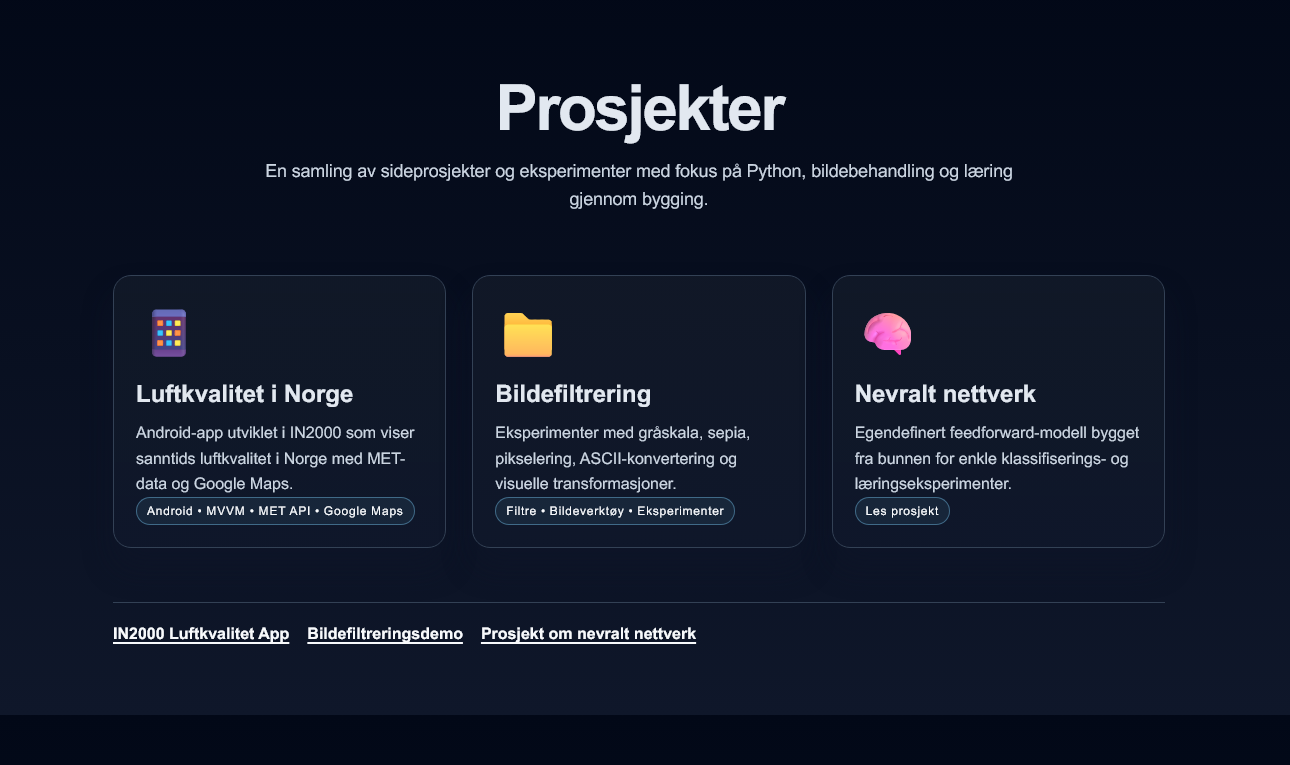
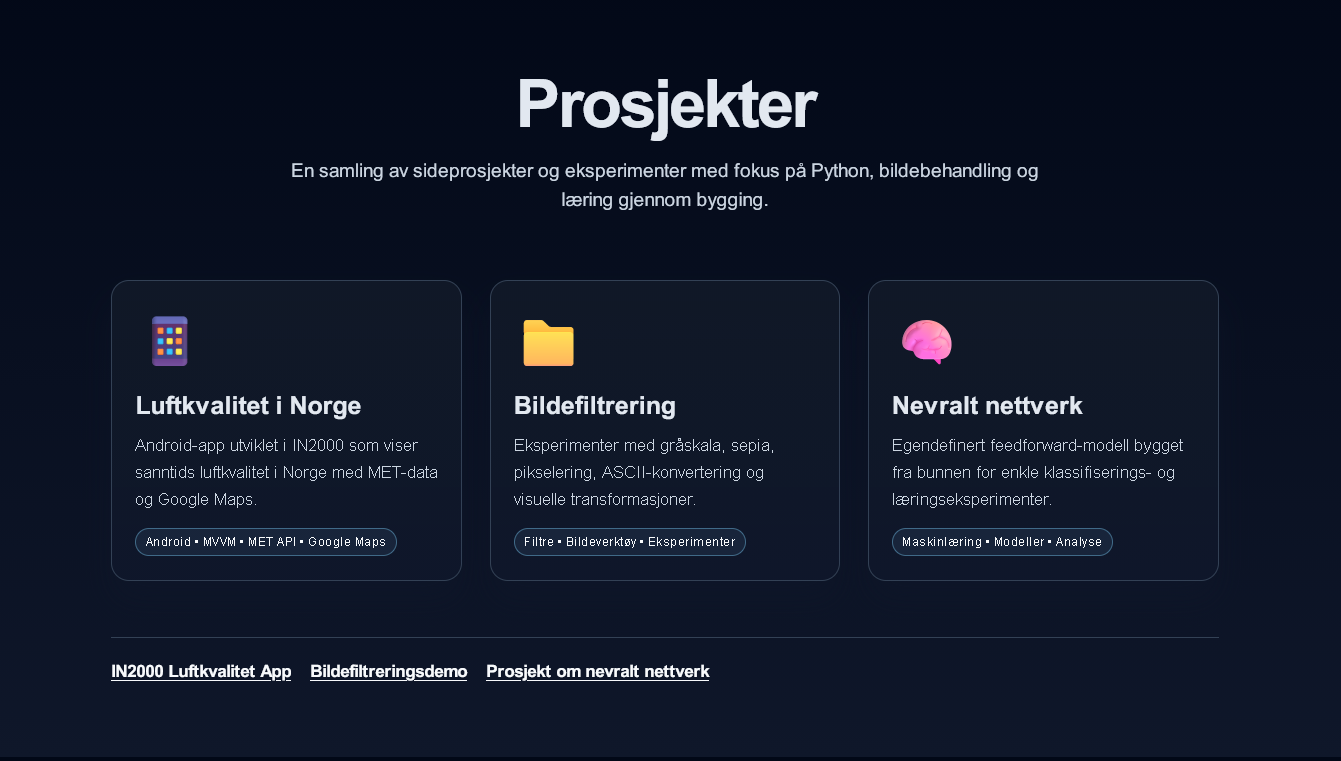
format endring

diff --git a/index.html b/index.html
@@ -83,15 +83,17 @@
     }
     .folder .tag {
       display: inline-block;
-      margin-top: auto;
-      padding: 6px 10px;
+      margin-top: 14px;
+      padding: 5px 9px;
       border-radius: 999px;
       border: 1px solid rgba(125, 211, 252, 0.4);
       color: var(--link);
       background: rgba(125, 211, 252, 0.08);
-      font-size: 0.78rem;
+      font-size: 0.72rem;
       letter-spacing: 0.04em;
       width: fit-content;
+      white-space: nowrap;
+      line-height: 1.3;
     }
     .bottom-links {
       margin-top: 54px;
@@ -141,7 +143,7 @@
         <div class="folder-icon">🧠</div>
         <h2>Nevralt nettverk</h2>
         <p>Egendefinert feedforward-modell bygget fra bunnen for enkle klassifiserings- og læringseksperimenter.</p>
-        <span class="tag">Les prosjekt</span>
+        <span class="tag">Maskinlæring • Modeller • Analyse</span>
       </a>
     </div>
 
